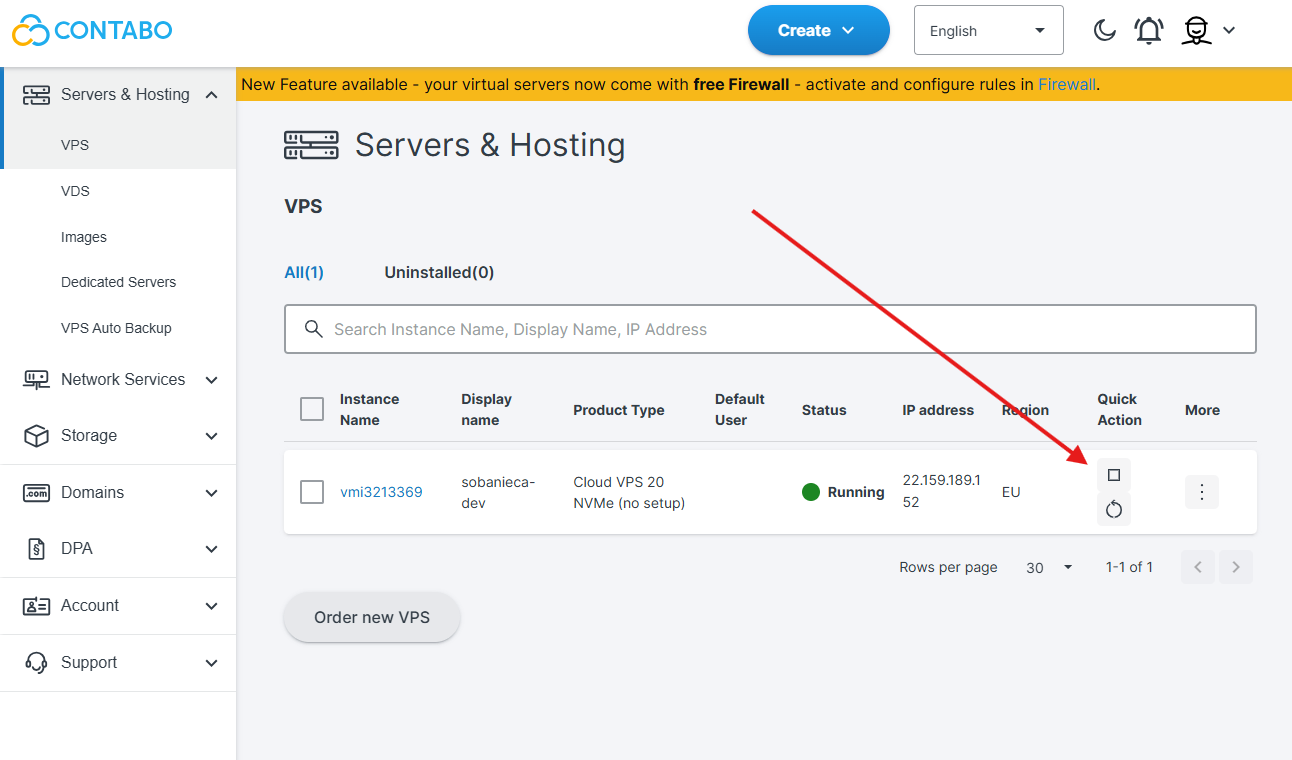
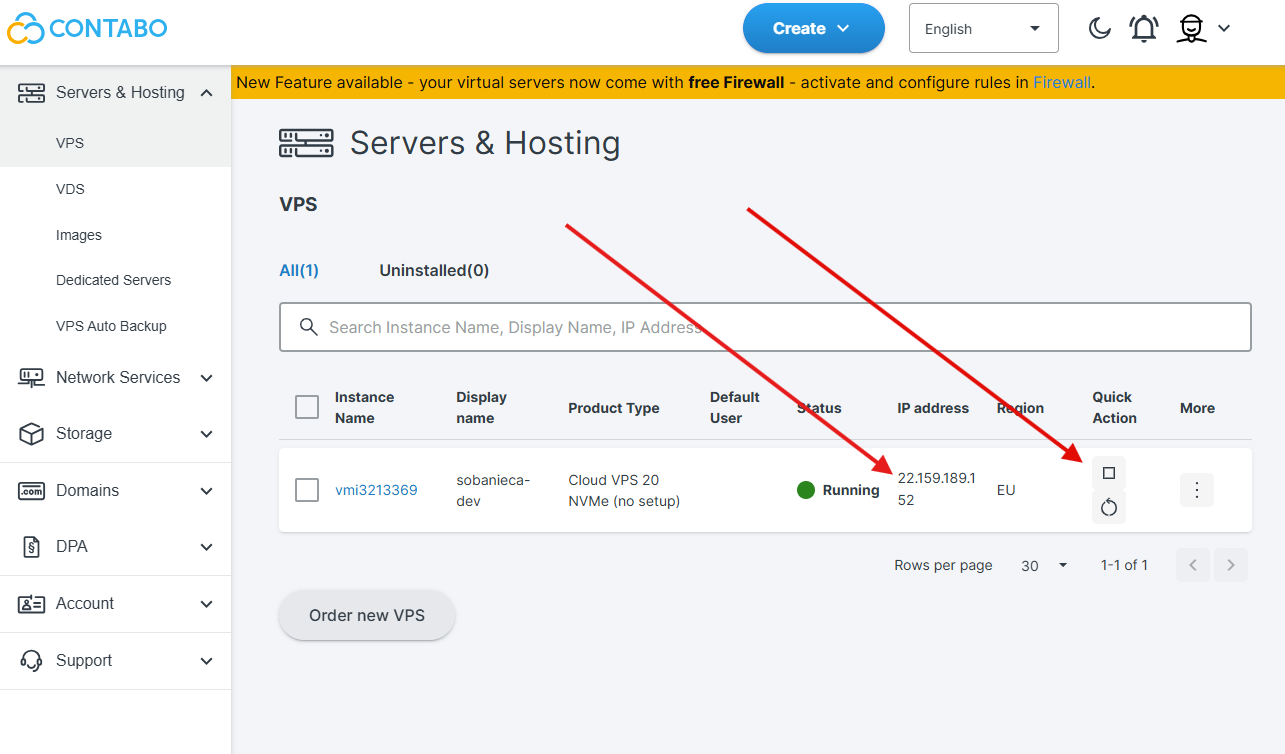
chore: adjust contabo article

diff --git a/articles/build-anywhere/2026-02-28-machine-setup-contabo.md b/articles/build-anywhere/2026-02-28-machine-setup-contabo.md
@@ -32,10 +32,13 @@ source code is secure on external GIT servers anyway. It's not a big deal to
 recreate machine anytime (especially once you have some scripts for it).
 
 When you scroll down you will see `Additional Features`. In my case I don't use
-private networking. This would require additional VPN setup which I don't need.
-Also, I use `stop` functionality to turn the VPS off when I don't use it. I will
-also show in [Connect and Secure VPS](./2026-03-02-connect-and-secure-vps.md)
-how to secure your VPS to improve security.
+private networking. This would require additional VPN setup which sounds like an
+overkill for this specific purpose.. Also, I use `stop` functionality to turn
+the VPS off when I don't use it (as additional layer of security). I will more
+on improving security in
+[Connect and Secure VPS](./2026-03-02-connect-and-secure-vps.md) which should
+give some more details on how you can secure your VPS and let you decide if you
+should or shouldn't use private networking.
 
 ![Additional Features](./images/contabo-step3.png)
 
@@ -46,9 +49,12 @@ should gain access to [Contabo customer panel](https://new.contabo.com):
 
 ![Customer Panel](./images/contabo-step4.png)
 
-Notice that you can stop your machine there. That's what I recommend doing -
-this will increase security of your VPS. When it's not running no one can access
-it.
+Note two important thing here:
+
+- You can stop your machine whenever you're not using it. That's what I
+  recommend doing - this will increase security of your VPS. When it's not
+  running no one can access it.
+- You need to note it's IP address - it will be needed for SSH connection.
 
 > Keep in mind that with setup presented here you VPS can be reached from any
 > location. If you don't secure it properly and run some application that
